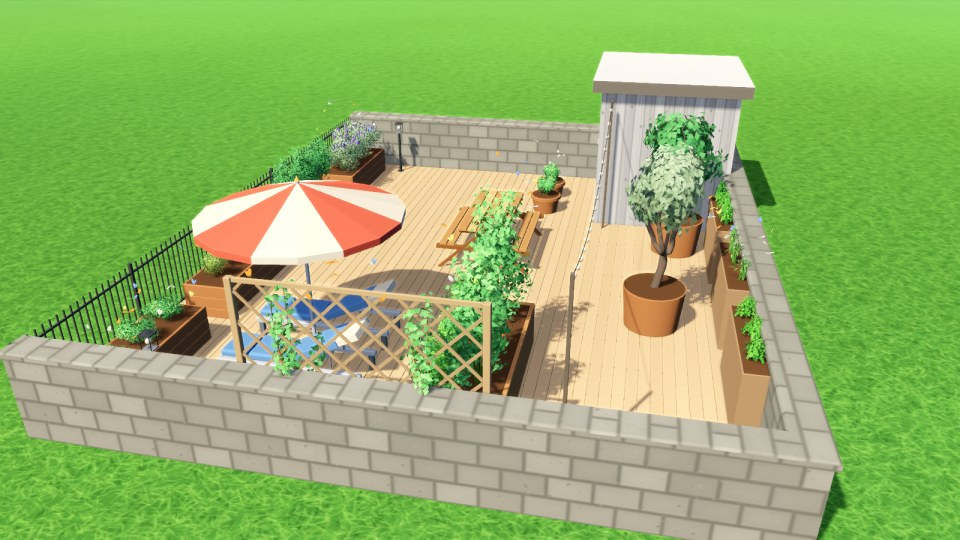
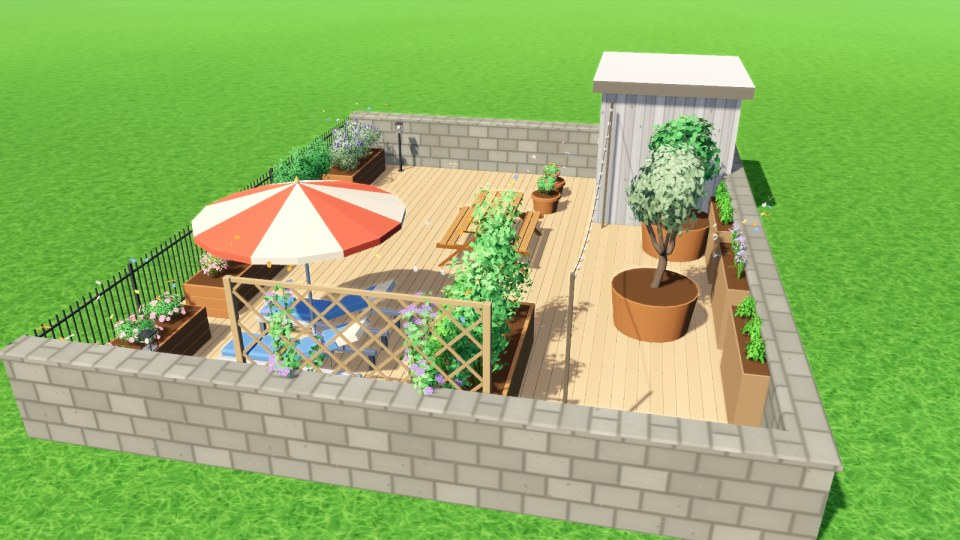
docs(#940, #564): the README re-shot with flowers; the forge's requirements say what changed
Senior review round 2: the FR chapter names the bulb's height out of bloom, the
perennial fruit months and the bloom ramp; the guild folder is a new temp folder; the
warnings test waits for the guild warnings instead of a fixed time. Follow-ups #970-#972.

diff --git a/tests/integration/test_example_plans.py b/tests/integration/test_example_plans.py
@@ -212,11 +212,17 @@ def test_an_example_opens_with_the_warnings_its_table_row_names_and_no_other(win
     from open_garden_planner.services.diagnostics import diagnostics_from_records
 
     open_example(window, slug)
-    qtbot.wait(200)  # the guild warnings are worked out with the next turns of the event loop
-    window._update_spacing_overlaps()
-    records = window._project_manager.diagnostics_snapshot(window.canvas_scene)
-    found = Counter(d.kind for d in diagnostics_from_records(records) if not d.kind.startswith("sun_"))
-    assert dict(found) == dict(SPECS[slug].warnings)
+
+    def warnings():
+        window._update_spacing_overlaps()
+        records = window._project_manager.diagnostics_snapshot(window.canvas_scene)
+        return dict(Counter(d.kind for d in diagnostics_from_records(records) if not d.kind.startswith("sun_")))
+
+    expected = dict(SPECS[slug].warnings)
+    # the guild warnings are worked out with the next turns of the event loop
+    qtbot.waitUntil(lambda: warnings() == expected, timeout=5000)
+    qtbot.wait(50)
+    assert warnings() == expected, "and no warning arrives late"
 
 
 @pytest.mark.parametrize("slug", sorted(SPECS))

diff --git a/scripts/example_plans/authoring.py b/scripts/example_plans/authoring.py
@@ -2,7 +2,9 @@
 
 from __future__ import annotations
 
+import atexit
 import math
+import shutil
 import tempfile
 from pathlib import Path
 from uuid import NAMESPACE_URL, uuid5
@@ -87,8 +89,10 @@ HINTS = text("Hints", "Hinweise", "Indicaciones")
 
 
 #: Where ``GuildLibrary`` looks for the user's own guild templates while a plan is
-#: authored: an empty folder outside the package (the library creates the folder).
-NO_USER_GUILDS = Path(tempfile.gettempdir()) / "ogp-example-plans-no-user-guilds"
+#: authored: a new, empty folder outside the package, removed when the process ends
+#: (a fixed folder could hold a template somebody left there).
+NO_USER_GUILDS = Path(tempfile.mkdtemp(prefix="ogp-example-plans-no-user-guilds-"))
+atexit.register(shutil.rmtree, NO_USER_GUILDS, ignore_errors=True)
 
 
 def runs(points, longest: float = 800.0) -> list[list[tuple[float, float]]]:

diff --git a/scripts/capture_readme_media.py b/scripts/capture_readme_media.py
@@ -64,7 +64,7 @@ EXAMPLE_WIDTH = 960
 #: How much nearer than "the whole plan with its highest tree" an example is shown:
 #: a plan with one tall tree is small in a picture that keeps the tree's top.
 CLOSER = {"japanese-garden": 0.7, "wildlife-garden": 0.75, "terraced-house-garden": 0.75,
-          "food-forest": 0.85}
+          "food-forest": 1.0, "spring-garden": 1.0}
 #: The width of a picture that stands in a row of three.
 PANEL_WIDTH = 960
 #: JPEG quality of the pictures. Measured on the hero: 88 keeps the interface's text clean.

diff --git a/docs/12-glossary/README.md b/docs/12-glossary/README.md
@@ -39,7 +39,7 @@
 | **Scene sync** | `core/scene3d.SceneSync` — applies successive snapshots to an engine sink with the fewest calls: builders only for added items and geometry changes, one transaction or none (records, sun and ground together). Invariant: incremental == full rebuild. A failing sink poisons it; `reset()` recovers through the sink's `clear()` |
 | **Plant recipe** | One entry of `core/plant_art/recipes.py` (`SPECIES`, `CATEGORIES`): what a plant looks like, as data — its archetype (`a`), its palette (`pal`) and a few numbers and features. The 2D sprite generator draws the SVG from it and the 3D plant builder builds the silhouette from it, so the plan and the 3D view cannot disagree about a plant's shape or green (ADR-059 addendum, §8.22.4) |
 | **Archetype (plant)** | The growth form a plant recipe names with `a=`: `canopy`, `conifer`, `mound`, `climber`, `ground`, `hedge`, `rosette`, `head`, `grass`, `allium`, `feathery`, `flower`, `palm`. One drawing routine per archetype in the sprite generator, one silhouette builder per archetype in 3D (`core/scene3d/builders/plants.py`); a test fails when the two sets differ |
-| **Sprite resolution** | `core/plant_art/resolve.resolve_sprite` — the one rule that picks a plant's sprite, and so its recipe, from its object type, species string and plant category: species (the whole name, else a key whose every word is a word of the name, else a key that holds every word of the name), else category, else the type's default category. Asked by the 2D renderer and the 3D builder alike, on the same three inputs — the species string is the item's own, raw (`item.plant_species`; the record's `sprite_species`), never the species data's name — and a species assigned from the plant database REPLACES it with the name of the species assigned (#445). Its answers are pinned by a golden of 1,562 answers, whose generator (`scripts/make_sprite_resolution_golden.py`) holds it to the rule with sprite files missing, and keeps the rule #446 replaced as `legacy_resolve` for the before/after |
+| **Sprite resolution** | `core/plant_art/resolve.resolve_sprite` — the one rule that picks a plant's sprite, and so its recipe, from its object type, species string and plant category: species (the whole name, else a key whose every word is a word of the name, else a key that holds every word of the name), else category, else the type's default category. Asked by the 2D renderer and the 3D builder alike, on the same three inputs — the species string is the item's own, raw (`item.plant_species`; the record's `sprite_species`), never the species data's name — and a species assigned from the plant database REPLACES it with the name of the species assigned (#445). Its answers are pinned by a golden of 1,624 answers, whose generator (`scripts/make_sprite_resolution_golden.py`) holds it to the rule with sprite files missing, and keeps the rule #446 replaced as `legacy_resolve` for the before/after |
 | **Fit report** | `core/scene3d/builders/plants.FitReport` — what the fit had to repair on a plant builder's output: the builder's own top as a fraction of the height, the scale factors, the share of foliage vertices pulled back onto the canopy circle and how far out they were, the share pressed onto the ground, how far the plant was set down — and where the plant ENDS (`reach`: its farthest vertex from the axis in canopy radii, wood included; for the foliage never more than `REACH_MAX` = 1.09, because the fit's last step holds it there, and for the plant as long as foliage is its outermost part — the trunk builders' invariant) and whether that last step moved anything. The instrument that holds the builders to building TO the data — a bounding box that is exact after the fit says nothing about the plant (§8.29.7). |
 | **Shape cache** | The plant builder's memory: a shape is built once per (recipe form, seed, 5 % step of height over canopy radius) and scaled to the plan's exact size, so a plant that grows is a multiplication, not a rebuild. Capped in bytes (`SHAPE_CACHE_BYTES`, 256 MB), not in a count, and without a cliff at the cap: beyond it a date scrub rebuilds only the plants that do not fit; a shape dropped at the cap comes back in two builds, and `clear_shape_cache()` (shapes and request log) on plan close starts the next plan clean (`PROPORTION_STEP`; §8.29.7). |
 | **Fit (3D plant)** | The last step of every plant build: foliage centred on the canopy circle, then scaled so the mesh's bounding box is the plan's data — top = resolved height, widest span = canopy diameter, base at 0. The builders build TO those numbers; the fit normalises the last millimetre and reports what it repaired (*Fit report*). Its LAST step puts any FOLIAGE vertex further than 1.09 canopy radii from the axis onto that circle, so where a plant's foliage ends is bounded by construction; wood is not moved and stays inside by the trunk builders' radii (§8.29.7) |

diff --git a/docs/functional-requirements.md b/docs/functional-requirements.md
@@ -840,7 +840,9 @@ Plant Forge: procedural species models, LODs and phenology (L3, #387, ADR-064).
 - **FR-3D-FORGE-01:** All 126 sprite recipes (111 species and 15 categories)
   have procedural 3D models in 13 archetypes, using shared art traits and no
   external models. Known heights remain within 3% and crown spread within 10%;
-  winter structural wood retains ground contact and recorded height.
+  winter structural wood retains ground contact and recorded height. A bulb
+  (tulip, daffodil, crocus, iris, lily) reaches its height with its flower: out of
+  bloom it stands as its strap leaves, at about 40-60% of that height (#940).
 - **FR-3D-FORGE-02:** Total triangle caps are 25,000/6,000/800 at distance LODs
   up to 18 m / up to 45 m / beyond 45 m. A256-entry, 64 MiB LRU bounds mesh storage.
 - **FR-3D-FORGE-03:** Initial silhouettes precede background synthesis. Camera
@@ -850,11 +852,16 @@ Plant Forge: procedural species models, LODs and phenology (L3, #387, ADR-064).
   within 50 cm of the canopy edge, then a three-pole bamboo tripod.
 - **FR-3D-FORGE-05:** Separate flower, fruit/pod and tuber geometry permits
   independent bloom and ripeness. Recorded harvest windows follow the shared
-  day-level task calendar and the plan's local frost dates.
+  day-level task calendar and the plan's local frost dates; a perennial's fruit
+  shows only inside its fruit months (#940). Flowers are counted by the crown's
+  surface and show from every side.
 - **FR-3D-FORGE-06:** Existing Models respond to seasonal date changes through
   shader/material values. Deciduous leaves and their shadows disappear in
   winter, evergreens retain foliage; illustrative seasons shift in the southern
-  hemisphere. Plant existence stays on the shared lifetime rule.
+  hemisphere. Plant existence stays on the shared lifetime rule. Bloom opens over
+  the first ten days of its window and fades over the last ten, flower by flower;
+  a hardy plant flowers before the last frost, a tender one waits for it; magnolia,
+  forsythia, peach, plum and cherry carry few leaves until their bloom ends (#940).
 
 Acceptance: `tests/integration/test_plant_forge.py`,
 `tests/integration/test_plant_forge_workspace.py`,
